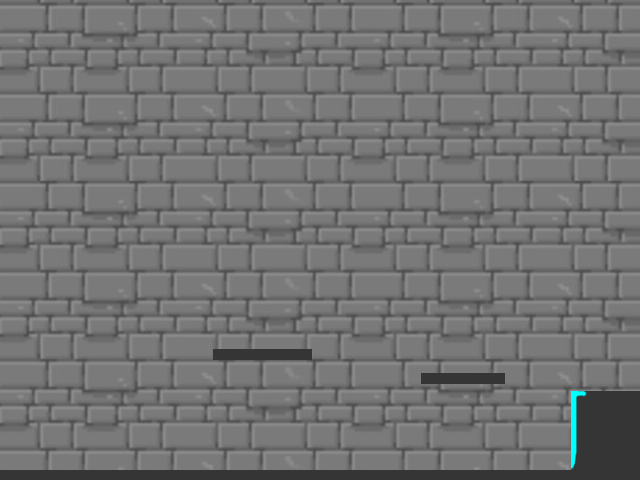
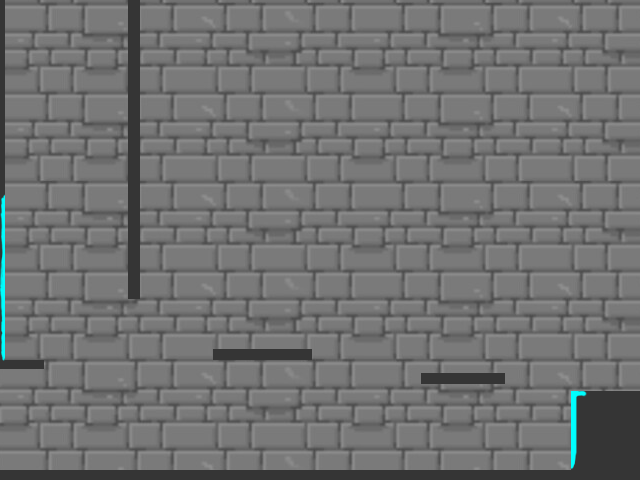
Wall changes and extra on scene

Changed region(s): [[0.0, 0.0, 0.0938, 0.7812], [0.1875, 0.0, 0.2188, 0.625]]

diff --git a/core/src/com/mygdx/game/MyGdxGame.java b/core/src/com/mygdx/game/MyGdxGame.java
@@ -86,10 +86,10 @@ public class MyGdxGame extends ApplicationAdapter {
 		batch.setProjectionMatrix(cam.combined);
 
 		//Level 1 Scene 1
-		floorl1s1.add(new Boundary(20, 350, 140, 348));
-		floorl1s1.add(new Boundary(233, 306, 640, 374)); //Add wall
-		floorl1s1.add(new Boundary(205, 1, 640, 14));
-		floorl1s1.add(new Boundary(0, 1, 204, 3));
+		//floorl1s1.add(new Boundary(20, 350, 140, 348));
+		//floorl1s1.add(new Boundary(233, 306, 640, 374)); //Add wall
+		//floorl1s1.add(new Boundary(205, 1, 640, 14));
+		//floorl1s1.add(new Boundary(0, 1, 204, 3));
 		//walls.add(new Boundary(233, 108, 640, 175));
 		//floor.add(new Boundary(0, 150, 50, 160));
 
@@ -120,11 +120,11 @@ public class MyGdxGame extends ApplicationAdapter {
 		fg = new Texture(String.format("levels/level%d/scene%dfore.png", level, scene));
 
 		floor.clear();
-		FileHandle handle = Gdx.files.local(String.format("levels/level%d/floor%d.txt", level, scene));
-		String text = handle.readString();
-		String[] bounds = text.split("\n");
+		FileHandle handleFloor = Gdx.files.local(String.format("levels/level%d/floor%d.txt", level, scene));
+		String textFloor = handleFloor.readString();
+		String[] floorBounds = textFloor.split("\n");
 
-		for (String bString : bounds) {
+		for (String bString : floorBounds) {
 			String[] arrayToChange = bString.trim().split(" ");
 
 			Integer[] bInt = new Integer[4];
@@ -134,6 +134,23 @@ public class MyGdxGame extends ApplicationAdapter {
 				i += 1;
 			}
 			floor.add(new Boundary(bInt[0], bInt[1], bInt[2], bInt[3]));
+		}
+
+		walls.clear();
+		FileHandle handleWalls = Gdx.files.local(String.format("levels/level%d/walls%d.txt", level, scene));
+		String textWalls = handleWalls.readString();
+		String[] wallBounds = textWalls.split("\n");
+
+		for (String bString : wallBounds) {
+			String[] arrayToChange = bString.trim().split(" ");
+
+			Integer[] bInt = new Integer[4];
+			int i = 0;
+			for (String number : arrayToChange) {
+				bInt[i] = Integer.parseInt(number);
+				i += 1;
+			}
+			walls.add(new Boundary(bInt[0], bInt[1], bInt[2], bInt[3]));
 		}
 	}
 	public void playing() {
@@ -231,6 +248,16 @@ public class MyGdxGame extends ApplicationAdapter {
 			if (character.overlaps(platform)) {
 				character.rebound(character.preventOverlap(platform).angle(),0f);
 				jumpAvailable = true;
+				if (character.isMoving()) {
+					status = 1;
+				} else {
+					status = 0;
+				}
+			}
+		}
+		for (Boundary wall : walls) {
+			if (character.overlaps(wall)) {
+				character.rebound(character.preventOverlap(wall).angle(),0f);
 				if (character.isMoving()) {
 					status = 1;
 				} else {

diff --git a/core/src/edu/lewisu/cs/cpsc41000/common/EdgeHandler.java b/core/src/edu/lewisu/cs/cpsc41000/common/EdgeHandler.java
@@ -53,7 +53,7 @@ public class EdgeHandler {
      */
     public EdgeHandler(ImageBasedScreenObject obj, OrthographicCamera cam,
     SpriteBatch batch) {
-        this(obj,cam,batch,0,Gdx.graphics.getWidth(),0,Gdx.graphics.getHeight(),20,
+        this(obj,cam,batch,0,Gdx.graphics.getWidth(),0,Gdx.graphics.getHeight(),1,
         EdgeConstants.LOCK,EdgeConstants.LOCK);
     }
     /**
